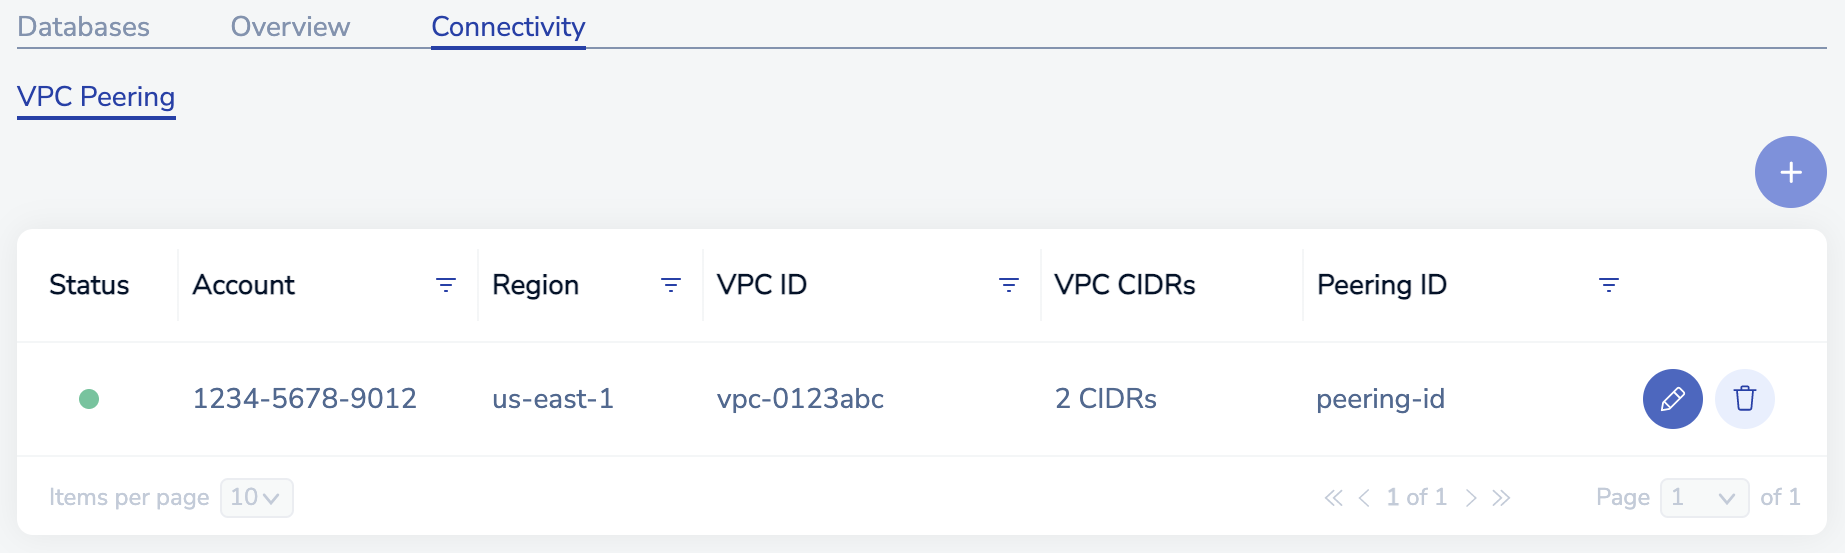
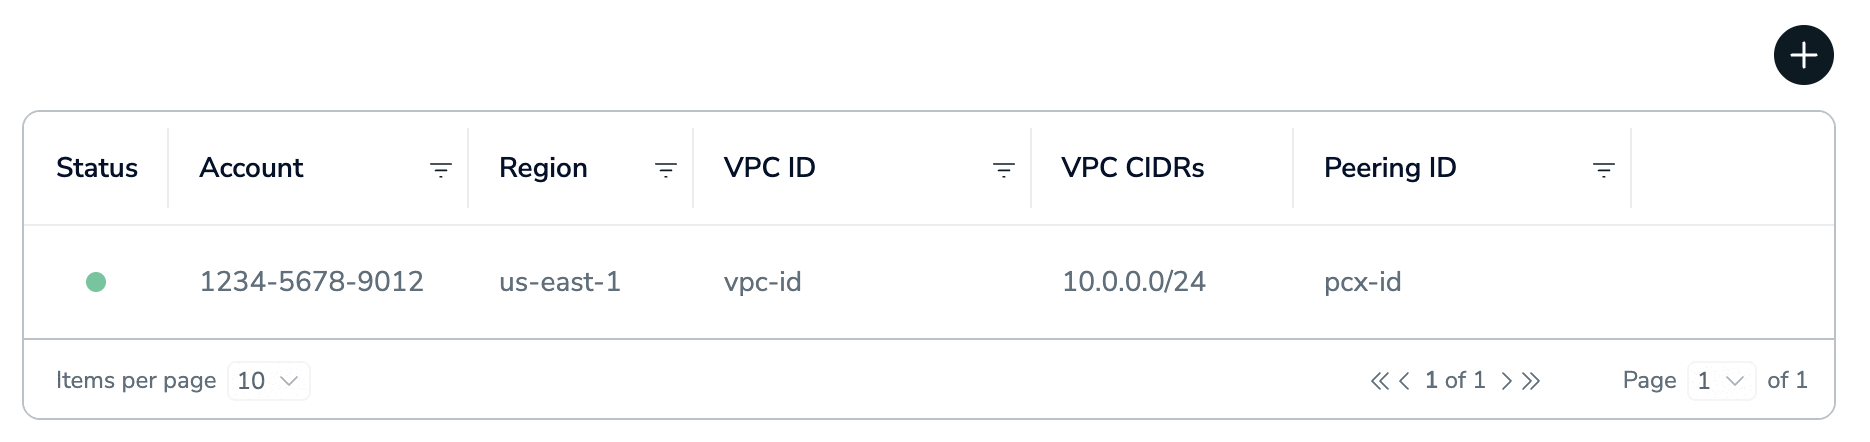
Add AWS VPC peering image

diff --git a/content/operate/rc/security/vpc-peering.md b/content/operate/rc/security/vpc-peering.md
@@ -62,8 +62,7 @@ To set up VPC peering:
 1. Select **Initiate peering**.
 1. Note the **Peering ID** of the VPC peering request.
 
-<!-- This image needs to be replaced the next time someone can set up VPC peering with AWS.
-    {{<image filename="images/rc/subscription-connectivity-vpc-peering-aws.png" width="350px" alt="View VPC peering list." >}} -->
+    {{<image filename="images/rc/subscription-connectivity-vpc-peering-aws.png" width="350px" alt="View VPC peering list." >}} 
 
 ### Approve VPC peering request {#approve-aws-vpc-peering}
 
